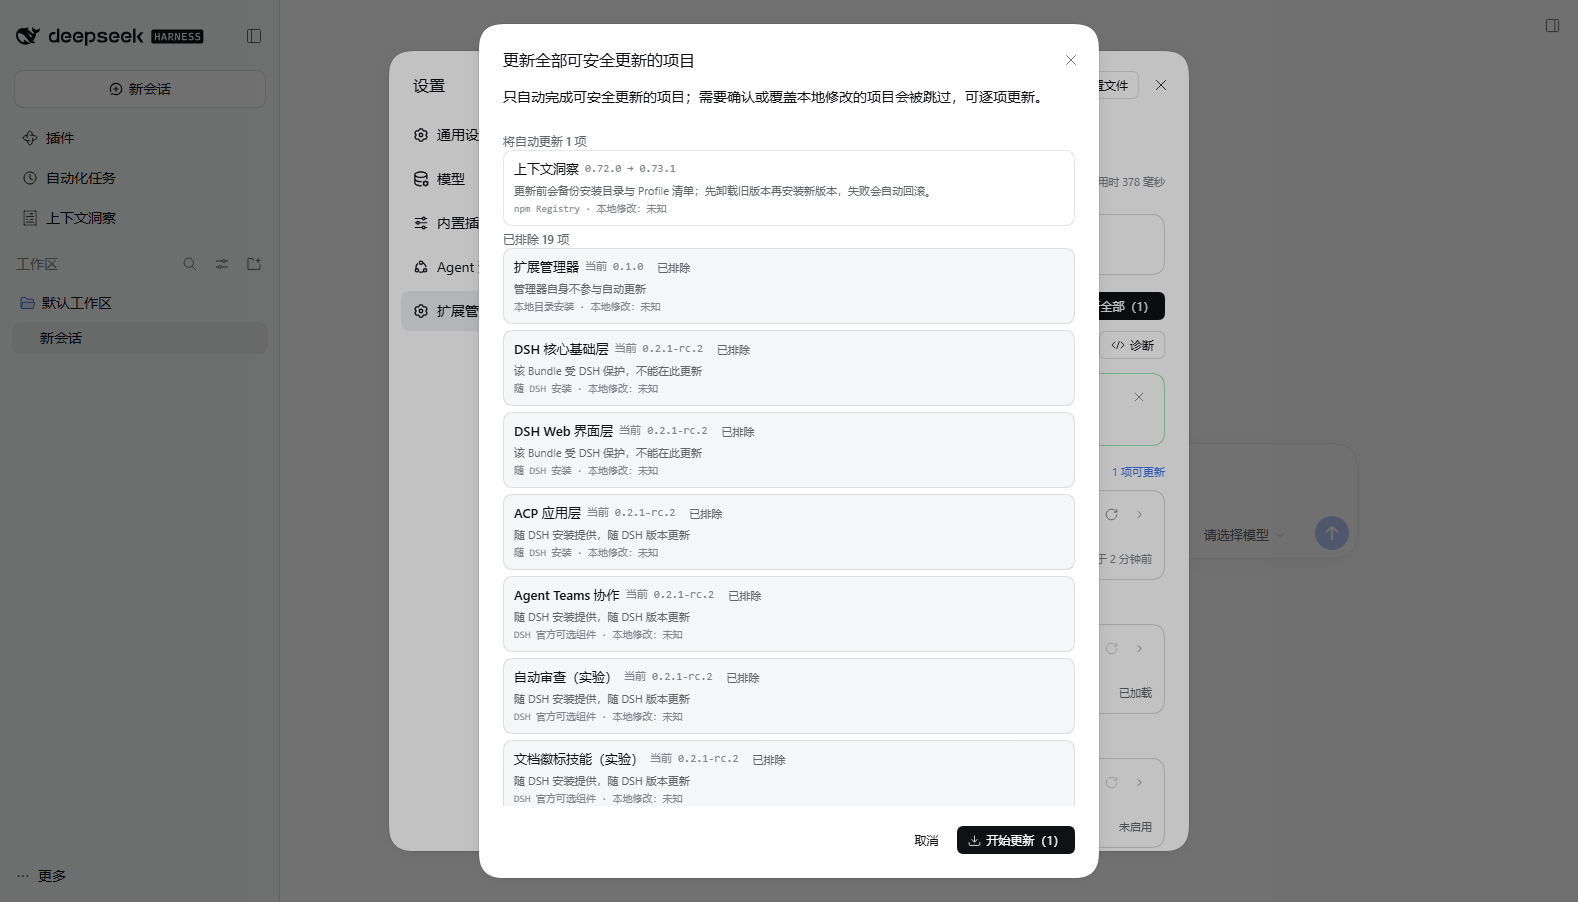
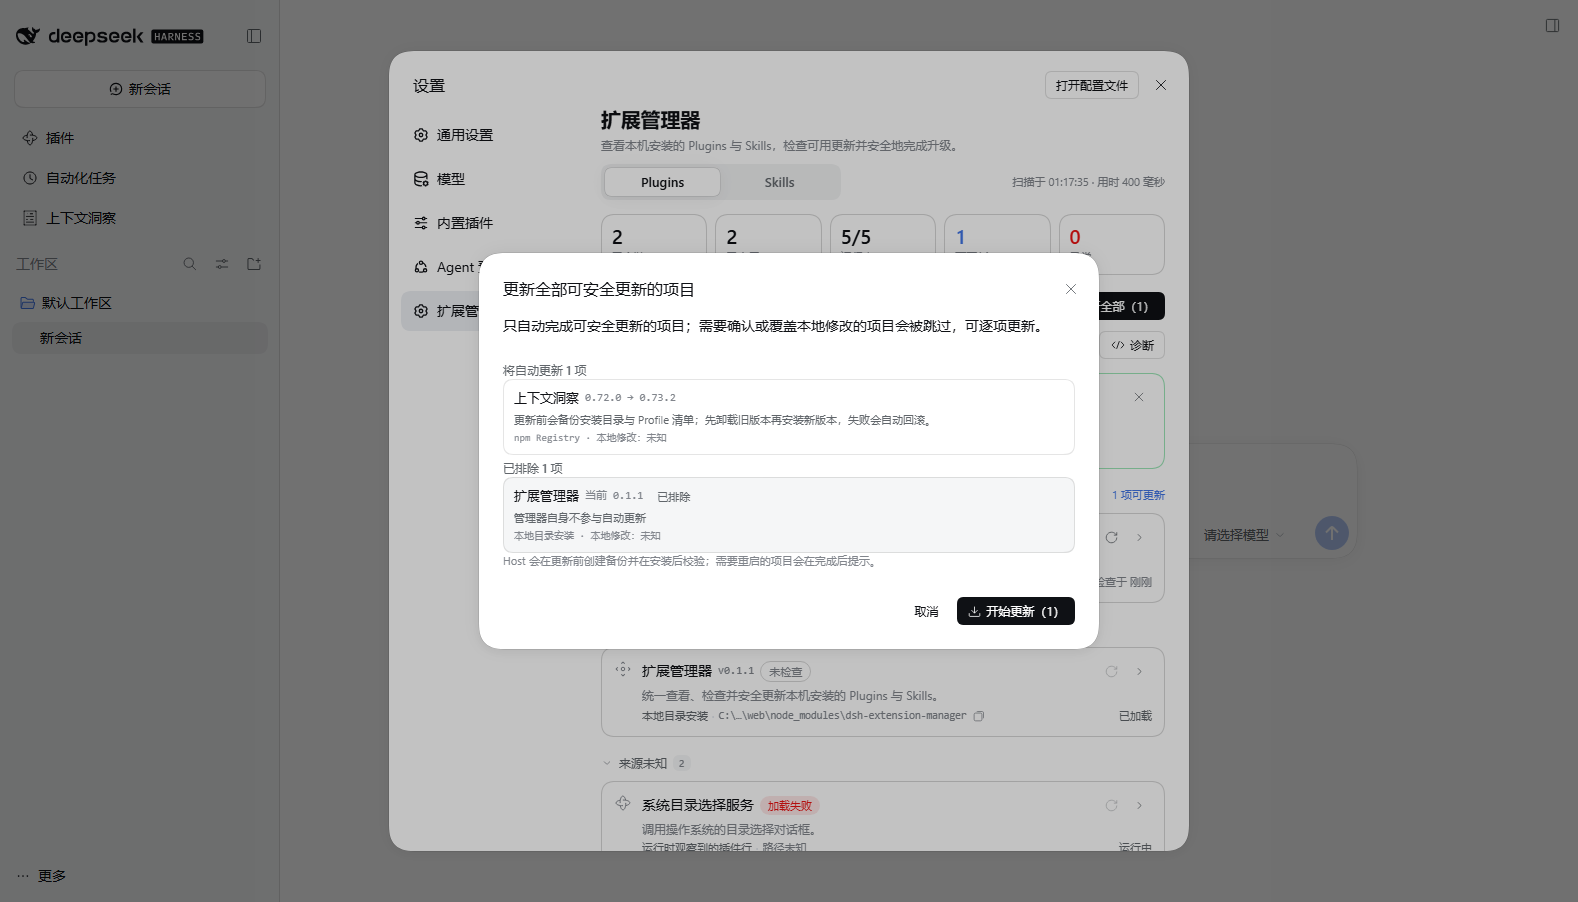
feat: 移除 Plugins 页面的 DSH 内置分类（v0.1.1）
- Host 清单排除 availability='installation' 的 DSH 内置 Bundle，它们仍由 DSH 自带 Built-in plugins 页面管理
- 内置 Loader 行继续归因，避免以“来源未知”运行时行重新出现
- 统计、搜索、检查更新和更新计划仅覆盖扩展管理器管理范围；内置组件数不再混入统计
- 诊断说明注明排除数量；版本 0.1.1；文档与 README 截图同步

Changed region(s): [[0.2795, 0.0, 0.7452, 0.9933], [0.7142, 0.4967, 0.7452, 0.5588], [0.6831, 0.6208, 0.7452, 0.6519]]

diff --git a/src/host/inventory/plugins.ts b/src/host/inventory/plugins.ts
@@ -314,9 +314,26 @@ export class PluginInventoryImpl implements PluginInventory {
     const attributed = new Set<string>()
     const bundleRecords: PluginBundleRecord[] = []
     const cachedChecks = this.state.get().checks
+    /**
+     * DSH-shipped components (`availability === 'installation'`) are managed by
+     * DSH's own Built-in plugins page. Keep discovering them — their Loader rows
+     * stay claimed below so they cannot reappear as unattributed rows — but
+     * exclude them from the Extension Manager's records, stats and update scope.
+     */
+    const excludedBuiltinBundles: string[] = []
+    const excludedBuiltinEntryIds = new Set<string>()
     for (const bundle of bundles) {
       // Catalog-only entries are not installed: they are not part of the list.
       if (!bundle.installed && bundle.availability !== 'installation') continue
+      if (bundle.availability === 'installation') {
+        excludedBuiltinBundles.push(bundle.name)
+        for (const row of bundle.rows) {
+          if (row.entryId === undefined) continue
+          excludedBuiltinEntryIds.add(row.entryId)
+          attributed.add(row.entryId)
+        }
+        continue
+      }
       const meta = PLUGIN_DISPLAY[bundle.name]
       const localizedTitle = localizedText(bundle.meta?.title)
       const localizedDescription = localizedText(bundle.meta?.description)
@@ -479,14 +496,17 @@ export class PluginInventoryImpl implements PluginInventory {
       // current profile loads; expose that relation instead of a duplicate copy.
       bundleRecords.push(record)
     }
+    // DSH-shipped rows are excluded from the managed row totals as well.
+    const managedPlugins = plugins.filter(plugin => !excludedBuiltinEntryIds.has(plugin.entryId))
     const stats: PluginStats = {
       bundlesInstalled: bundleRecords.filter(record => record.availability === 'profile' && record.runtime.installed && record.scope === 'current-profile').length,
       bundlesEnabled: bundleRecords.filter(record => record.availability === 'profile' && record.runtime.enabled === true).length,
       bundlesOtherProfiles: bundleRecords.filter(record => record.scope === 'other-profile').length,
-      bundlesOfficial: bundleRecords.filter(record => record.availability === 'installation').length,
-      rowsTotal: plugins.length,
-      rowsLoaded: plugins.filter(plugin => plugin.fiberPhase === 'active').length,
-      rowsFailed: plugins.filter(plugin => plugin.fiberPhase === 'failed').length,
+      // DSH-shipped components are outside the managed scope; kept at 0 for API compatibility.
+      bundlesOfficial: 0,
+      rowsTotal: managedPlugins.length,
+      rowsLoaded: managedPlugins.filter(plugin => plugin.fiberPhase === 'active').length,
+      rowsFailed: managedPlugins.filter(plugin => plugin.fiberPhase === 'failed').length,
       updatesAvailable: bundleRecords.filter(record => record.version.status === 'update-available').length,
       abnormal: bundleRecords.filter(record => record.diagnostics.some(item => item.level === 'error') || record.runtime.error !== undefined).length,
     }
@@ -503,9 +523,13 @@ export class PluginInventoryImpl implements PluginInventory {
     if (runtimeOnlyRows.length > 0) {
       notes.push(`${String(runtimeOnlyRows.length)} 个插件行只在运行时出现（无安装包归属），已在列表中标注。`)
     }
+    if (excludedBuiltinBundles.length > 0) {
+      notes.push(`${String(excludedBuiltinBundles.length)} 个 DSH 内置组件由 DSH 自带的 Built-in plugins 页面管理，未纳入本页清单、统计与更新范围。`)
+    }
     const unexplained: Reconciliation['unexplained'] = []
     counts.attributedRows = attributed.size
     counts.unattributedRows = rowRecords.length
+    counts.excludedBuiltinBundles = excludedBuiltinBundles.length
     counts.otherProfileDependencies = [...otherDeps.keys()].length
     const reconciliation: Reconciliation = {
       complete: bundlesError === undefined && pluginsError === undefined

diff --git a/src/client/model.ts b/src/client/model.ts
@@ -628,7 +628,7 @@ export function pluginStatCells(stats: PluginStats): StatCell[] {
       key: 'installed',
       label: '已安装',
       value: stats.bundlesInstalled,
-      hint: `当前 Profile 中声明的插件包（含未启用）。其他 Profile ${String(stats.bundlesOtherProfiles)} 个，DSH 内置 ${String(stats.bundlesOfficial)} 个。`,
+      hint: `当前 Profile 中声明的插件包（含未启用）。其他 Profile ${String(stats.bundlesOtherProfiles)} 个；DSH 内置组件由 DSH 自带的 Built-in plugins 页面管理。`,
     },
     {
       key: 'enabled',

diff --git a/src/shared/types.ts b/src/shared/types.ts
@@ -360,7 +360,7 @@ export interface PluginStats {
   bundlesEnabled: number
   /** Bundle packages readable from other profiles (informational). */
   bundlesOtherProfiles: number
-  /** Shipped/official packages readable from the installation. */
+  /** Shipped/official packages readable from the installation (excluded from the managed scope; reported as 0). */
   bundlesOfficial: number
   /** Plugin rows in the current runtime (all bundles). */
   rowsTotal: number

diff --git a/CHANGELOG.md b/CHANGELOG.md
@@ -2,6 +2,14 @@
 
 All notable changes to this project are documented here. The format follows [Keep a Changelog](https://keepachangelog.com/en/1.1.0/), and this project adheres to [Semantic Versioning](https://semver.org/spec/v2.0.0.html).
 
+## [0.1.1] — 2026-10-19
+
+### Changed
+
+- The Plugins page no longer lists DSH-shipped components. DSH's own **Built-in plugins** page remains the place to manage them; no DSH plugin, configuration or file is changed.
+- Page statistics, search/filter results, check-all and update plans now cover only the Extension Manager's managed scope (third-party/profile bundles and their runtime rows). DSH-shipped Loader rows are still claimed internally for reconciliation, so they cannot reappear as unattributed rows.
+- The “已安装” stat tooltip no longer mentions the excluded DSH built-in count.
+
 ## [0.1.0] — 2026-10-18
 
 Initial public release, targeting DSH 0.2.1-rc.2. Published on npm as [`dsh-extension-manager`](https://www.npmjs.com/package/dsh-extension-manager).

diff --git a/docs/testing.md b/docs/testing.md
@@ -46,7 +46,7 @@ node scripts/dev/verify-dialog-layout.mjs --url "http://127.0.0.1:3080/?token=..
 
 Contract and design rationale: [dialog-layout.md](dialog-layout.md).
 
-## Verification summary (v0.1.0)
+## Verification summary (v0.1.1)
 
 - Unit tests: **98/98 passing**; typecheck clean; production build succeeds (`lib/index.js` Host ESM bundle, `lib/client.js` Web client bundle).
 - Isolated acceptance: **7/7 scenarios passing**, including npm update, git update with rollback, batch + concurrency, local-modification overwrite, interrupted-install recovery, skill update and Windows file-lock rollback.

diff --git a/docs/dialog-layout.md b/docs/dialog-layout.md
@@ -1,7 +1,7 @@
 # Dialog 布局规范与验收记录
 
 > 适用范围：Extension Manager 自有弹窗（更新确认、更新计划/进度/失败、诊断信息、扩展详情）。
-> 基线版本：DSH 0.2.1-rc.2，`dsh-extension-manager@0.1.0`。
+> 基线版本：DSH 0.2.1-rc.2，`dsh-extension-manager@0.1.1`。
 > 本文记录布局契约、修复根因与可重复的量化验收方法。
 
 ## 1. 布局契约
